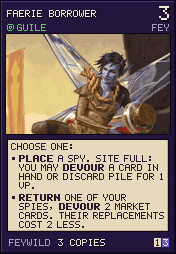
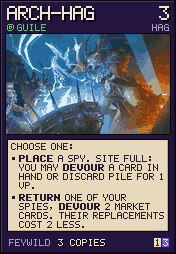
Stage NE-46: Feywild hags and bullywugs — Mother Lorinda is the 6-cost hag, Green Hag moves to the 4-cost slot with its HS animation, Sprite -> Bullywug Warrior, Faerie Borrower -> Arch-hag, Pixie Wonderbringer -> Bullywug Bog Sage (moved from Chult); Chult gets Spirit Naga, the unused Ravenloft car

diff --git a/hs_unity/CARD_MAP.md b/hs_unity/CARD_MAP.md
@@ -155,7 +155,7 @@ S'theno, Neptulon TID, Neeru, Al'Akir NEW1 заменены свежими).
 | Treant (49811) | Greybough (DMF_734) | `DMFFX_GreyBough_CustomSummon.prefab` | ожившее дерево |
 | Bone Devil (49516) | G'huun (BE_287) | `BE_287_GhuunTheCataStrophic_CustomSummon.prefab` | СДЕЛАНО (HsFx-79; владелец выбрал в HsBrowser 2026-10-27) |
 | Drider (49120) | Blightfang (RLK_225) | `RLK_225_BlightFang_Spawn.prefab` | СДЕЛАНО (HsFx-79; владелец выбрал в HsBrowser 2026-10-27) |
-| Green Hag (49900; до NE-45 — 49121 в Ravenloft) | Jace Darkweaver (SW_044) | `SWFX_JaceDarkweaver_CustomSummon.prefab` | СДЕЛАНО (HsFx-77; владелец выбрал в HsBrowser 2026-10-27) |
+| Green Hag (49920; до NE-45 — 49121 в Ravenloft, NE-45 — 49900) | Jace Darkweaver (SW_044) | `SWFX_JaceDarkweaver_CustomSummon.prefab` | СДЕЛАНО (HsFx-77; владелец выбрал в HsBrowser 2026-10-27) |
 | Shadow (49122) | The Jailer (CORE_MAW_034) | `MAWFX_TheJailer_CustomSummon.prefab` | СДЕЛАНО (HsFx-79; владелец выбрал в HsBrowser 2026-10-27) |
 
 ### piltover
